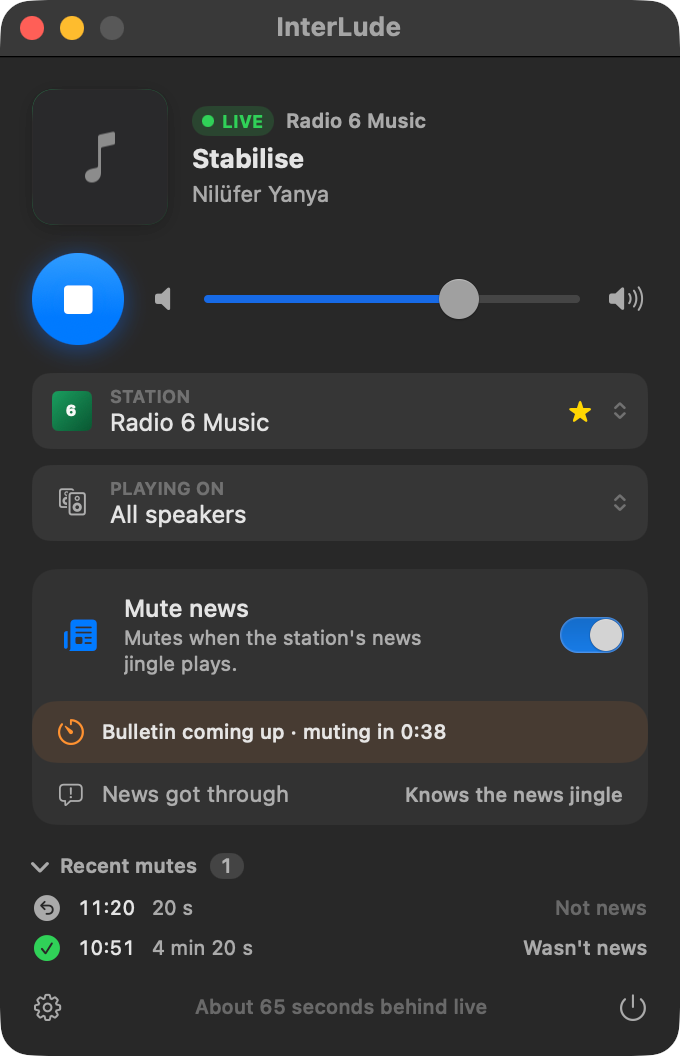
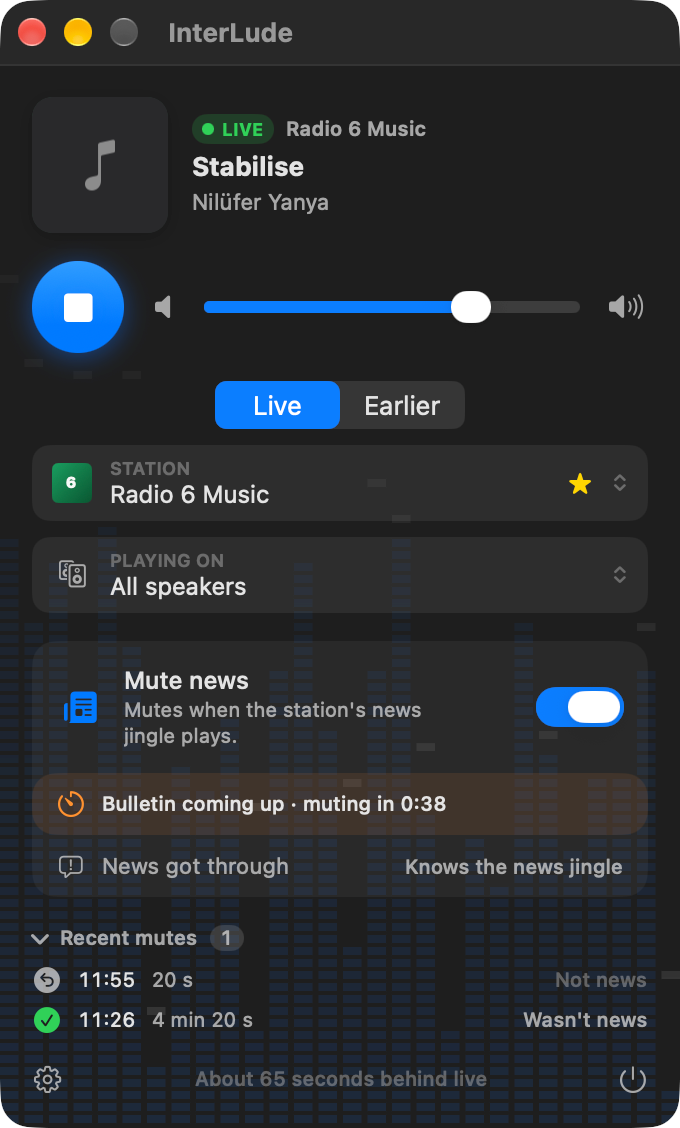
Update InterLude page and card for 0.2.0 and Earlier mode

diff --git a/interlude.html b/interlude.html
@@ -32,11 +32,12 @@
       <p>
         InterLude is a small macOS menu bar app that plays BBC radio to my speakers, about a minute behind live,
         and mutes the news bulletins on music stations. When the music comes back, so does the sound. It was built
-        over a couple of days in October 2026. It plays on the Mac, a Chromecast or a Cast group.
+        over a couple of days in October 2026. It plays on the Mac, a Chromecast or a Cast group. It can also play back a programme from the last 30 days
+        with the news cut out.
       </p>
 
       <p class="project-links">
-        <a class="button" href="https://github.com/MstrThePlague/InterLude/releases/tag/v0.1.0">Download v0.1.0</a>
+        <a class="button" href="https://github.com/MstrThePlague/InterLude/releases/tag/v0.2.0">Download v0.2.0</a>
         <a class="button secondary" href="https://github.com/MstrThePlague/InterLude">Source on GitHub</a>
       </p>
 
@@ -141,8 +142,8 @@
           <a href="images/interlude-playing.png"><img src="images/interlude-playing.png"
               alt="InterLude panel with Radio 6 Music playing, volume slider, station and speaker pickers, the Mute news switch and a list of recent mutes."
               loading="lazy"></a>
-          <figcaption><strong>3. Back to the music.</strong> The panel also has volume, a station picker, a choice of
-            speakers and a log of recent mutes you can mark as right or wrong.</figcaption>
+          <figcaption><strong>3. Back to the music.</strong> The panel also has volume, a Live and Earlier switch, a
+            station picker, a choice of speakers and a log of recent mutes you can mark as right or wrong.</figcaption>
         </figure>
       </div>
 
@@ -155,13 +156,50 @@
           without muting. You can also choose waves, a stream or birdsong in place of silence.</figcaption>
       </figure>
 
+      <h2>Earlier</h2>
+      <p>
+        The first version only worked on live radio. The second lets me go back. Switch the panel from Live to
+        Earlier, pick a day and a programme from the last 30 days, and it plays from the start with the news
+        bulletins cut out. They're cut, not muted: the programme carries straight on after the bulletin, so there's no
+        gap of silence, and a note says how much news was skipped.
+      </p>
+
+      <div class="shots two">
+        <figure>
+          <a href="images/interlude-earlier-pick.png"><img src="images/interlude-earlier-pick.png"
+              alt="InterLude panel in Earlier mode, showing a list of the day's Radio 6 Music programmes with their start times to choose from."
+              loading="lazy"></a>
+          <figcaption><strong>Pick a programme.</strong> Step back through the last 30 days and choose a show.</figcaption>
+        </figure>
+        <figure>
+          <a href="images/interlude-earlier-playing.png"><img src="images/interlude-earlier-playing.png"
+              alt="InterLude panel playing an earlier programme, with a progress bar marking where the news was, and a note that 3 minutes 8 seconds of news has been skipped."
+              loading="lazy"></a>
+          <figcaption><strong>News skipped.</strong> A bar shows how far through you are and where the news was, with a
+            count of what's been left out.</figcaption>
+        </figure>
+      </div>
+
+      <p>
+        Programmes from the last eleven hours or so come from the BBC's live stream, which keeps more than it lists.
+        Anything older comes from its BBC Sounds episode. Either way the whole programme is already there to be
+        analysed, so InterLude works about ten minutes ahead of where I'm listening. That leaves time for an extra
+        check: it transcribes the minutes around each hour and half hour and starts the cut where the newsreader
+        begins, even if the presenter has talked straight into the news.
+      </p>
+      <p>
+        It isn't finished. You can't seek within a programme yet, and bulletins are cut on 6.4 second boundaries, so a
+        few seconds either side can go with them.
+      </p>
+
       <h2>What it does</h2>
       <ul>
-        <li>Lives in the menu bar and plays any BBC station through the Mac, a Chromecast or a Cast group, and you can switch speaker while it plays.</li>
+        <li>Lives in the menu bar and plays any of 64 BBC stations through the Mac, a Chromecast or a Cast group, and you can switch speaker while it plays.</li>
         <li>Plays a fixed time behind live: 60 seconds by default, adjustable per station.</li>
         <li>Mutes from the news theme to the newsreader's sign-off, so the presenter's handover and chat afterwards still play.</li>
         <li>Learns a station's news theme from the last few hours of broadcast the first time you play it.</li>
         <li>Has &ldquo;Not news&rdquo; and &ldquo;News got through&rdquo; buttons to correct it, and a log of every decision.</li>
+        <li>Plays a programme from the last 30 days from its start with the bulletins cut out, on the Mac or on Cast speakers.</li>
         <li>Shows what's playing and a countdown to the end of a mute.</li>
         <li>Can play ocean waves, a woodland stream or birdsong during a mute instead of silence, fading in and out.</li>
         <li>Sends no telemetry. Its only network traffic is to BBC servers and to my speakers.</li>
@@ -180,8 +218,8 @@
 
       <h2>Try it</h2>
       <p>
-        InterLude is free and open source (MIT licence). The first release, 0.1.0, is on
-        <a href="https://github.com/MstrThePlague/InterLude/releases/tag/v0.1.0">GitHub</a>, with the source and the
+        InterLude is free and open source (MIT licence). The latest release, 0.2.0, is on
+        <a href="https://github.com/MstrThePlague/InterLude/releases/tag/v0.2.0">GitHub</a>, with the source and the
         full write-up of how it was worked out in the
         <a href="https://github.com/MstrThePlague/InterLude">repository</a>. It's an early release, so expect rough
         edges.
@@ -190,7 +228,7 @@
         <li>It needs an Apple silicon Mac running macOS 26 or later.</li>
         <li>It isn't notarised by Apple, so the first launch needs a one-off approval in System Settings. The steps
           are in the README, or you can build it from source.</li>
-        <li>BBC streams may not play outside the UK.</li>
+        <li>BBC streams and BBC Sounds episodes may not play outside the UK.</li>
         <li>Detection is tuned and tested on 6 Music. Other music stations should work but haven't been measured.</li>
       </ul>
 

diff --git a/projects.html b/projects.html
@@ -30,7 +30,7 @@
         <div class="card-body">
           <span class="project-meta">macOS app &middot; Open source &middot; October 2026</span>
           <h2>InterLude</h2>
-          <p>A menu bar app that plays BBC radio to my Mac or Chromecast speakers and quietly mutes the news bulletins.</p>
+          <p>A menu bar app that plays BBC radio to my Mac or Chromecast speakers and quietly mutes the news bulletins, or cuts them out of programmes from the last 30 days.</p>
           <span class="project-more">Read more &rarr;</span>
         </div>
       </a>

diff --git a/styles.css b/styles.css
@@ -658,3 +658,15 @@ body {
     grid-template-columns: 1fr;
   }
 }
+
+.shots.two {
+  width: min(44rem, calc(100vw - 3rem));
+  grid-template-columns: repeat(2, 1fr);
+}
+
+@media (max-width: 768px) {
+  .shots.two {
+    width: 100%;
+    grid-template-columns: 1fr;
+  }
+}
